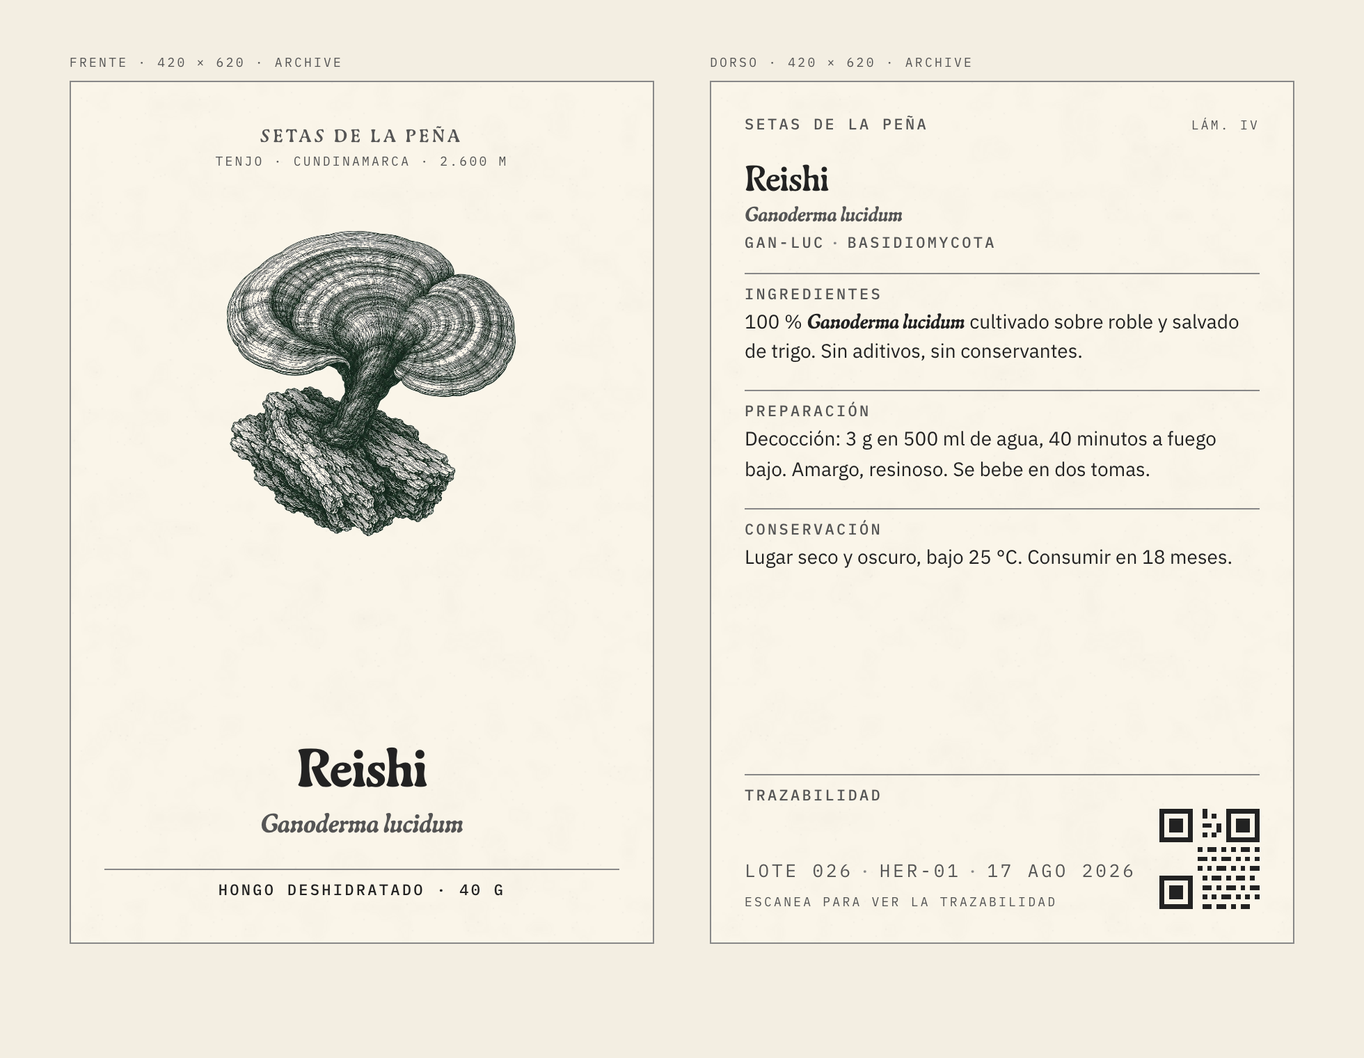
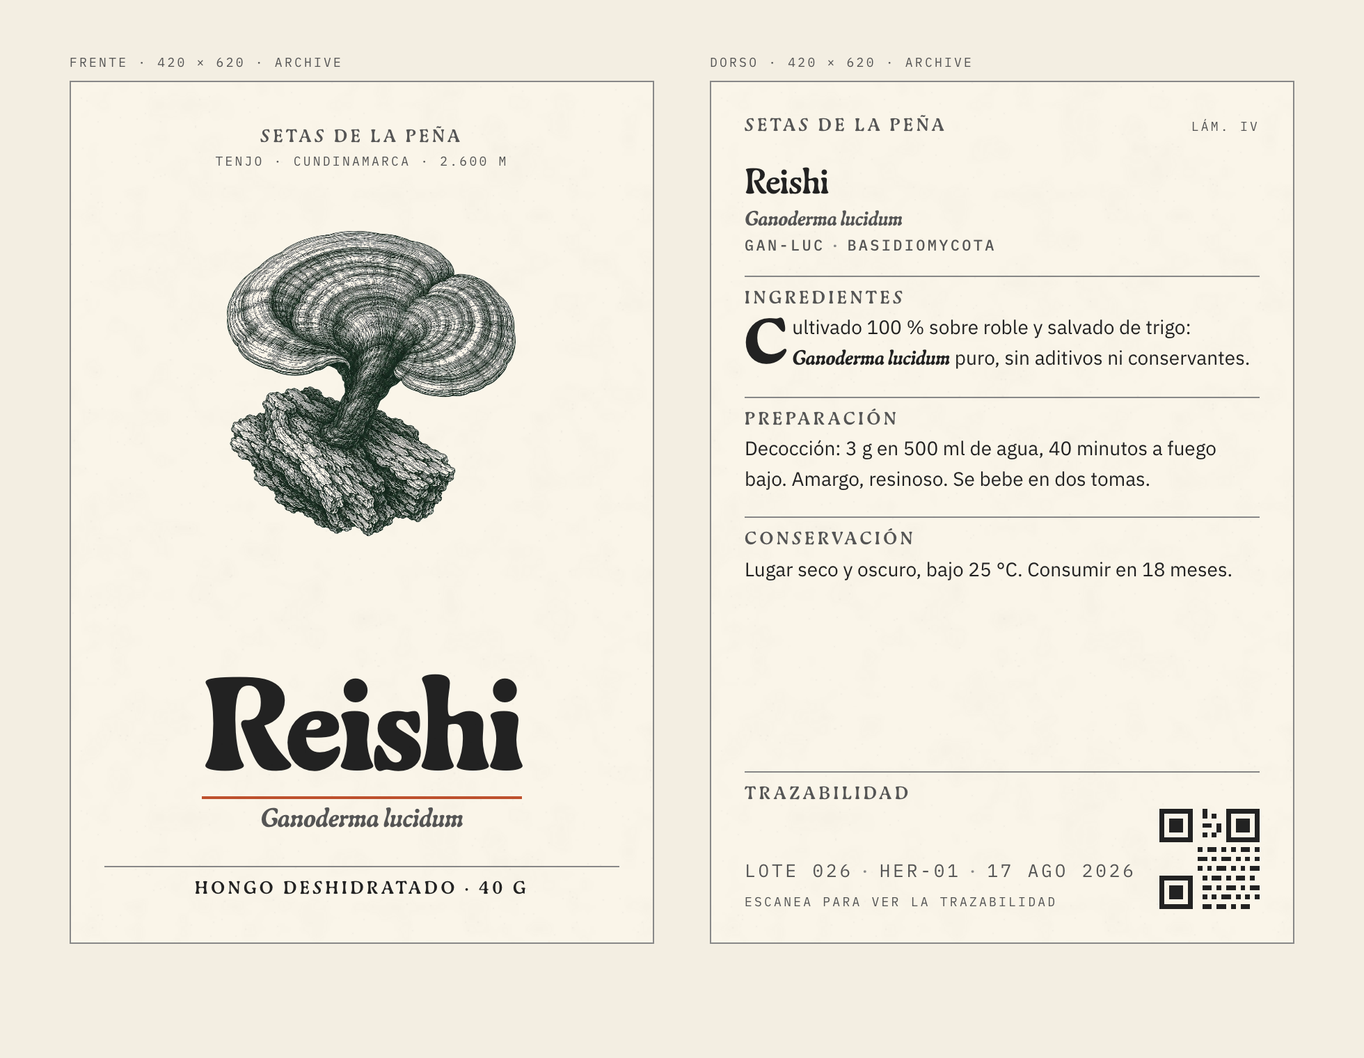
ds-2026: unify ficha/pack into ARCHIVE editorial voice, push cover treatment
Merges the customer-facing components (.sdp-ficha, .sdp-pack) fully into
the editorial layer and extends ARCHIVE mode toward a real magazine
treatment:

- tokens.css: additive --accent-warm (oklch(57% 0.15 38)), scoped to
  [data-mode="archive"] only — same hue family as --rust, fill/underline/
  thin-rule only (never text; 4.38:1 on paper).
- editorial.css: new --t-display-cover (88px Gaya Black) for the ficha
  masthead and packaging-front species name, each paired with the
  accent-warm rule; .ed-drop's cap now defaults on .sdp-ficha's prose and
  .sdp-pack--back's first section, no class required; .sdp-fig__ref reads
  as cartouche copy under [data-mode="archive"].
- components.css: .sdp-ficha/.sdp-pack drop --rule-heavy/--rule-frame for
  --rule-hairline throughout; __brand/__net/__sk/__k labels move from mono
  .t-label to the .ed-eyebrow treatment; new .sdp-fig--bleed full-bleed
  plate variant.
- Updated ficha.html, ficha-editorial.html and packaging.html to the new
  treatment; re-rendered mockups.
- contrast-audit.py: added ACCENT_WARM pairs (24/24 hold); DESIGN_SYSTEM.md
  updated throughout. FIELD and CONTROL modes untouched.

Claude-Session: https://claude.ai/code/session_01TXEK7an3m9N4C3cQKdr5TF

diff --git a/08_brand/ds-2026/components/components.css b/08_brand/ds-2026/components/components.css
@@ -50,6 +50,9 @@
 /* B.1 Botanical plate — full specimen, portrait, hairline specimen frame */
 .sdp-fig--plate       .sdp-fig__frame { aspect-ratio: 4 / 5;  padding: var(--space-3); background: var(--surface-page); }
 .sdp-fig--plate       .sdp-fig__frame img { object-fit: contain; }
+/* B.1a Full-bleed plate — ARCHIVE variant, no interior padding or ground.
+   Combine with .sdp-fig--plate: class="sdp-fig sdp-fig--plate sdp-fig--bleed" */
+.sdp-fig--plate.sdp-fig--bleed .sdp-fig__frame { padding: 0; background: none; }
 /* B.2 Specimen photo — detail, square */
 .sdp-fig--specimen    .sdp-fig__frame { aspect-ratio: 1 / 1; }
 /* B.3 Cultivation photo — context, 3:2 landscape */
@@ -66,10 +69,10 @@
 /* ─────────────────────────────────────────────────────────────
    C · FICHA / LÁMINA — botanical info sheet. ARCHIVE mode.
    ───────────────────────────────────────────────────────────── */
-.sdp-ficha { border: var(--rule-heavy); background: var(--surface-page); display: grid; }
+.sdp-ficha { border: var(--rule-hairline); background: var(--surface-page); display: grid; }
 .sdp-ficha__hd {
   display: flex; justify-content: space-between; align-items: flex-end; gap: var(--space-3);
-  padding: var(--space-3); border-bottom: var(--rule-heavy);
+  padding: var(--space-3); border-bottom: var(--rule-hairline);
 }
 .sdp-ficha__body { display: grid; grid-template-columns: 1fr 1fr; gap: var(--space-4); padding: var(--space-4) var(--space-3); }
 .sdp-ficha__prose > p:last-child { margin-bottom: 0; }
@@ -79,7 +82,10 @@
 }
 .sdp-ficha__cell { padding: var(--space-2) var(--space-3); border-right: var(--rule-hairline); }
 .sdp-ficha__cell:last-child { border-right: 0; }
-.sdp-ficha__k { display: block; font: var(--t-label); letter-spacing: var(--tracking-label); text-transform: uppercase; color: var(--text-metadata); margin-bottom: var(--space-half); }
+/* Editorial eyebrow (Gaya letterspaced caps), not the mono .t-label —
+   requires components/editorial.css loaded; every ARCHIVE-mode surface
+   that uses .sdp-ficha ships with it. */
+.sdp-ficha__k { display: block; font: var(--t-eyebrow-ed); letter-spacing: 0.2em; text-transform: uppercase; color: var(--text-secondary); margin-bottom: var(--space-half); }
 .sdp-ficha__v { font: var(--t-body); }
 .sdp-ficha__v--price { font: var(--t-data); font-size: var(--size-body); }
 @media (max-width: 700px) { .sdp-ficha__body { grid-template-columns: 1fr; } .sdp-ficha__ft { grid-template-columns: 1fr; } .sdp-ficha__cell { border-right: 0; border-bottom: var(--rule-hairline); } }
@@ -211,15 +217,17 @@
 /* ─────────────────────────────────────────────────────────────
    K · PACKAGING — front and back faces.
    ───────────────────────────────────────────────────────────── */
-.sdp-pack { border: var(--rule-frame); background: var(--surface-page); display: grid; }
-.sdp-pack__brand { font: var(--t-label); letter-spacing: var(--tracking-label); text-transform: uppercase; color: var(--text-metadata); }
+.sdp-pack { border: var(--rule-hairline); background: var(--surface-page); display: grid; }
+/* Editorial eyebrow treatment on __brand / __net / __sk — see the note
+   at .sdp-ficha__k above; same dependency on editorial.css. */
+.sdp-pack__brand { font: var(--t-eyebrow-ed); letter-spacing: 0.2em; text-transform: uppercase; color: var(--text-secondary); }
 .sdp-pack--front { padding: var(--space-4) var(--space-3); grid-template-rows: auto 1fr auto; gap: var(--space-3); text-align: center; justify-items: center; }
 .sdp-pack__illo { width: 100%; max-width: 260px; }
-.sdp-pack__net { font: var(--t-label); letter-spacing: var(--tracking-label); text-transform: uppercase; border-top: var(--rule-hairline); padding-top: var(--space-1); width: 100%; }
+.sdp-pack__net { font: var(--t-eyebrow-ed); letter-spacing: 0.2em; text-transform: uppercase; border-top: var(--rule-hairline); padding-top: var(--space-1); width: 100%; }
 .sdp-pack--back { display: flex; flex-direction: column; padding: var(--space-3); gap: var(--space-2); }
 .sdp-pack__sect { border-top: var(--rule-hairline); padding-top: var(--space-1); }
-.sdp-pack__sk { font: var(--t-label); letter-spacing: var(--tracking-label); text-transform: uppercase; color: var(--text-metadata); display: block; margin-bottom: var(--space-half); }
-.sdp-pack__sv { font: var(--t-small); }
+.sdp-pack__sk { font: var(--t-eyebrow-ed); letter-spacing: 0.2em; text-transform: uppercase; color: var(--text-secondary); display: block; margin-bottom: var(--space-half); }
+.sdp-pack__sv { font: var(--t-small); display: block; }
 
 /* ─────────────────────────────────────────────────────────────
    L · SOP DOCUMENT — procedure sheet. FIELD mode.

diff --git a/08_brand/ds-2026/components/editorial.css b/08_brand/ds-2026/components/editorial.css
@@ -18,6 +18,27 @@
   --t-eyebrow-ed: var(--weight-medium) 12px/1.2 var(--font-editorial);
 
   --rule-editorial: 1px solid var(--ink);
+
+  /* Cover scale — one step above --size-display-01 (64px), for ARCHIVE
+     cover treatments only: a packaging-front species name, a ficha
+     masthead. Not part of the nine-role type scale in tokens.css; it
+     never appears in running layout, only on the single cover mark
+     a surface is allowed. */
+  --size-display-cover: 88px;
+  --t-display-cover: var(--weight-black) var(--size-display-cover)/var(--leading-solid) var(--font-editorial);
+}
+
+/* ── Cover masthead — the species name on a ficha header or a packaging
+   front, set at cover scale with the accent-warm rule beneath it. This
+   is the one place --accent-warm appears; the surface takes no other
+   accent alongside it. ─────────────────────────────────────────────── */
+[data-mode="archive"] .sdp-ficha__hd .sdp-species__common,
+[data-mode="archive"] .sdp-pack--front .sdp-species__common {
+  font: var(--t-display-cover);
+  letter-spacing: var(--tracking-display);
+  display: inline-block;
+  padding-bottom: var(--space-1);
+  border-bottom: 2px solid var(--accent-warm);
 }
 
 /* ── Prose face. In ARCHIVE the running text is set in Gaya: the same
@@ -39,8 +60,13 @@
   margin: 0 0 var(--space-2);
 }
 
-/* Drop cap. Three lines, flush to the baseline grid, never on a lede. */
-.ed-drop::first-letter {
+/* Drop cap. Three lines, flush to the baseline grid, never on a lede.
+   Default (not opt-in) on the two customer-facing surfaces this layer
+   absorbs: the ficha's body copy and the packaging back's first section
+   — no .ed-drop class required there. */
+.ed-drop::first-letter,
+[data-mode="archive"] .sdp-ficha__prose > p:first-of-type::first-letter,
+[data-mode="archive"] .sdp-pack--back .sdp-pack__sect:not(.sdp-pack__sect ~ .sdp-pack__sect) .sdp-pack__sv::first-letter {
   float: left;
   font-family: var(--font-editorial);
   font-weight: var(--weight-black);
@@ -97,3 +123,19 @@
 /* ── Two-column editorial text, as a journal sets it. ─────────────── */
 .ed-cols { column-count: 2; column-gap: var(--space-4); column-rule: var(--rule-hairline); }
 .ed-cols > p { margin-top: 0; }
+
+/* ── Caption voice on ARCHIVE surfaces. A figure/species caption still
+   marked up as .sdp-fig__ref (mono uppercase, the FIELD/CONTROL plate
+   ref) reads as cartouche copy instead once it sits under [data-mode=
+   "archive"] — italic Gaya, sentence case, matching .ed-cartouche__l.
+   New captions should use .ed-cartouche directly; this is the safety
+   net for the plain component markup. ───────────────────────────────  */
+[data-mode="archive"] .sdp-fig__ref {
+  font-family: var(--font-editorial);
+  font-style: italic;
+  font-weight: var(--weight-regular);
+  font-size: 17px;
+  letter-spacing: 0;
+  text-transform: none;
+  color: var(--text-primary);
+}

diff --git a/08_brand/ds-2026/mockups/ficha-editorial.html b/08_brand/ds-2026/mockups/ficha-editorial.html
@@ -20,8 +20,11 @@
 
         <div>
           <div class="ed-eyebrow" style="margin-bottom:10px">Basidiomycota · Polyporales</div>
-          <h1 style="font:var(--t-display-02);letter-spacing:var(--tracking-display);margin:0">Reishi</h1>
-          <div style="font-family:var(--font-editorial);font-style:italic;font-weight:300;font-size:23px;color:var(--text-secondary);margin-top:2px">Ganoderma lucidum</div>
+          <!-- Cover scale (--t-display-cover, 88px Gaya Black) with the
+               archive accent rule beneath — the same masthead motif as
+               the ficha header and packaging front now share. -->
+          <h1 style="font:var(--t-display-cover);letter-spacing:var(--tracking-display);margin:0;display:inline-block;padding-bottom:var(--space-1);border-bottom:2px solid var(--accent-warm)">Reishi</h1>
+          <div style="font-family:var(--font-editorial);font-style:italic;font-weight:300;font-size:23px;color:var(--text-secondary);margin-top:10px">Ganoderma lucidum</div>
 
           <div class="ed-div" style="margin:22px 0 20px"><span class="ed-div__m">Lám. IV</span></div>
 
@@ -48,9 +51,11 @@
         </div>
 
         <aside style="display:grid;gap:20px">
-          <figure style="margin:0">
-            <div class="sdp-fig__frame frame-specimen" style="background:var(--surface-page);padding:14px;aspect-ratio:4/5;display:flex;align-items:center;justify-content:center">
-              <img src="../assets/img/species/reishi.png" alt="" style="max-width:100%;max-height:100%;object-fit:contain">
+          <!-- Full-bleed plate variant (sdp-fig--bleed): no interior
+               padding or ground, the specimen runs to the frame edge. -->
+          <figure class="sdp-fig sdp-fig--plate sdp-fig--bleed" style="margin:0">
+            <div class="sdp-fig__frame frame-specimen">
+              <img src="../assets/img/species/reishi.png" alt="Ganoderma lucidum">
             </div>
             <figcaption class="ed-cartouche" style="margin-top:12px">
               <span class="ed-cartouche__n">Lám. IV · cuerpo, corte y esporas</span>

diff --git a/08_brand/ds-2026/mockups/packaging.html b/08_brand/ds-2026/mockups/packaging.html
@@ -17,10 +17,14 @@
 
       <img class="sdp-pack__illo" src="../assets/img/reishi-botanical-engraving.png" alt="Ganoderma lucidum">
 
-      <div style="display:grid;gap:6px;justify-items:center;width:100%">
-        <!-- Gaya Bold 36px / Gaya Italic 18px — normative for the front face -->
-        <div style="font-family:var(--font-editorial);font-weight:700;font-size:36px;line-height:1.05;letter-spacing:-0.01em">Reishi</div>
-        <div style="font-family:var(--font-editorial);font-style:italic;font-weight:400;font-size:18px;color:var(--text-secondary)">Ganoderma lucidum</div>
+      <div style="display:grid;gap:10px;justify-items:center;width:100%">
+        <!-- Cover scale (--t-display-cover, 88px Gaya Black) + the archive
+             accent rule — see .sdp-pack--front .sdp-species__common in
+             editorial.css. Normative for the front face. -->
+        <div class="sdp-species" style="justify-items:center;gap:2px">
+          <div class="sdp-species__common">Reishi</div>
+          <div class="sdp-species__latin">Ganoderma lucidum</div>
+        </div>
         <div class="sdp-pack__net" style="text-align:center;margin-top:12px">Hongo deshidratado · 40 g</div>
       </div>
     </div>
@@ -42,7 +46,10 @@
 
       <div class="sdp-pack__sect">
         <span class="sdp-pack__sk">Ingredientes</span>
-        <span class="sdp-pack__sv">100 % <i style="font-family:var(--font-editorial)">Ganoderma lucidum</i> cultivado sobre roble y salvado de trigo. Sin aditivos, sin conservantes.</span>
+        <!-- First letter carries the default drop cap (.sdp-pack--back
+             .sdp-pack__sect:first-of-type .sdp-pack__sv, editorial.css) —
+             copy leads with a word, not a numeral, so the cap lands well. -->
+        <span class="sdp-pack__sv">Cultivado 100 % sobre roble y salvado de trigo: <i style="font-family:var(--font-editorial)">Ganoderma lucidum</i> puro, sin aditivos ni conservantes.</span>
       </div>
 
       <div class="sdp-pack__sect">

diff --git a/08_brand/ds-2026/tokens/tokens.css b/08_brand/ds-2026/tokens/tokens.css
@@ -160,6 +160,16 @@
 }
 
 /* ── Mode scopes: set on any container to switch density ── */
-[data-mode="archive"] { --gutter: var(--gutter-archive); --page-margin: var(--margin-archive); }
+[data-mode="archive"] {
+  --gutter: var(--gutter-archive); --page-margin: var(--margin-archive);
+
+  /* Customer-surface accent — additive, not a ninth pigment. Same hue
+     family as --rust (terracotta, ~38° vs ~35°), lighter and less
+     saturated. Archive-only: fichas, packaging. Fill / underline /
+     thin-rule ONLY — 4.38:1 on paper clears the 3:1 non-text floor but
+     misses 4.5:1 for text, so it is banned as body text by the same
+     logic that constrains --warning. See scripts/contrast-audit.py. */
+  --accent-warm: oklch(57% 0.15 38);
+}
 [data-mode="field"]   { --gutter: var(--gutter-field);   --page-margin: var(--margin-field); }
 [data-mode="control"] { --gutter: var(--gutter-control); --page-margin: var(--margin-control); }

diff --git a/08_brand/ds-2026/mockups/ficha.html b/08_brand/ds-2026/mockups/ficha.html
@@ -35,7 +35,7 @@
         </figure>
 
         <div class="sdp-ficha__prose ed-prose">
-          <p class="ed-lede">El reishi crece lento. Un bloque tarda entre catorce y dieciséis semanas
+          <p>El reishi crece lento. Un bloque tarda entre catorce y dieciséis semanas
           en dar su primer carpóforo, y el sombrero se lacquea sólo cuando el <span class="chem">CO₂</span>
           baja lo suficiente. Es la especie que más nos ha enseñado sobre paciencia.</p>
 

diff --git a/08_brand/ds-2026/scripts/contrast-audit.py b/08_brand/ds-2026/scripts/contrast-audit.py
@@ -18,6 +18,7 @@ P = {
     "PAPER_PANEL": "#F3EEE2", "PAPER_RECESSED": "#EAE4D8",
     "MOSS_TINT": "#E5E4D5", "RUST_TINT": "#EDDDCF",
     "WARNING_TINT": "#F4EAD6", "SOIL_TINT": "#E5DFD3",
+    "ACCENT_WARM": "#BE512D",  # oklch(57% 0.15 38) — archive-only, see tokens.css
 }
 
 def lin(c):
@@ -55,11 +56,13 @@ PAIRS = [
     ("INK",          "WARNING_TINT",   "Caution banner text (sanctioned)",       4.5, A),
     ("RULE",         "PAPER",          "Hairlines, specimen frames (non-text)",  3.0, A),
     ("MOSS",         "PAPER",          "Meter fill (non-text)",                  3.0, A),
+    ("ACCENT_WARM",  "PAPER",          "Archive accent — fill/underline/hairline (non-text)", 3.0, A),
     # --- Banned pairings. The system forbids these; the gate proves why. ---
     ("WARNING",      "PAPER",          "Ochre as TEXT — use WARNING_TEXT",       4.5, F),
     ("WARNING",      "WARNING_TINT",   "Ochre text on its own tint — use INK",   4.5, F),
     ("PAPER",        "WARNING",        "Paper on ochre fill — use INK",          4.5, F),
     ("WARNING",      "PAPER",          "Ochre hairline/meter alone — needs INK", 3.0, F),
+    ("ACCENT_WARM",  "PAPER",          "Archive accent as TEXT — never; fails AA", 4.5, F),
 ]
 
 rows = []

diff --git a/08_brand/ds-2026/DESIGN_SYSTEM.md b/08_brand/ds-2026/DESIGN_SYSTEM.md
@@ -93,6 +93,16 @@ Derived surfaces — mixed from the eight above, introducing no new pigment:
 **One accent per view.** A dashboard showing moss, ochre and rust at once has
 stopped classifying and started decorating.
 
+**`--accent-warm` — the archive accent (additive).** `oklch(57% 0.15 38)`,
+scoped to `[data-mode="archive"]` only — it does not exist in FIELD or
+CONTROL, and it is not a ninth pigment role. Same hue family as `RUST`
+(~38° vs. ~35°), lighter and less saturated: a terracotta, not a new
+colour story. **Fill, underline or thin-rule only** — 4.38:1 on paper
+clears the 3:1 non-text floor but misses 4.5:1 for text, so it is banned
+as body text by the same logic that constrains `WARNING` (§1.4). Its one
+sanctioned use is the masthead rule beneath a cover-scale species name
+(§5B) — a surface using it takes no other accent alongside it.
+
 ### 1.4 Contrast audit — the ochre constraint
 
 `WARNING #C49A4C` measures **2.39:1** on `PAPER`. That fails WCAG AA for text
@@ -131,12 +141,14 @@ means the palette moved and the ban is stale). Run it in CI.
 | `INK` | `WARNING_TINT` | Caution banner text (sanctioned) | 4.5:1 | 13.32:1 | Sanctioned |
 | `RULE` | `PAPER` | Hairlines, specimen frames (non-text) | 3.0:1 | 3.26:1 | Sanctioned |
 | `MOSS` | `PAPER` | Meter fill (non-text) | 3.0:1 | 5.52:1 | Sanctioned |
+| `ACCENT_WARM` | `PAPER` | Archive accent — fill/underline/hairline (non-text) | 3.0:1 | 4.38:1 | Sanctioned |
 | `WARNING` | `PAPER` | Ochre as TEXT — use WARNING_TEXT | 4.5:1 | 2.39:1 | **Banned** |
 | `WARNING` | `WARNING_TINT` | Ochre text on its own tint — use INK | 4.5:1 | 2.18:1 | **Banned** |
 | `PAPER` | `WARNING` | Paper on ochre fill — use INK | 4.5:1 | 2.39:1 | **Banned** |
 | `WARNING` | `PAPER` | Ochre hairline/meter alone — needs INK | 3.0:1 | 2.39:1 | **Banned** |
+| `ACCENT_WARM` | `PAPER` | Archive accent as TEXT — never; fails AA | 4.5:1 | 4.38:1 | **Banned** |
 
-22/22 expectations hold
+24/24 expectations hold
 
 ---
 
@@ -201,6 +213,18 @@ binomial in Gaya italic and the plate reference in mono micro.
 
 **Cropping.** Plates are `object-fit: contain` — a specimen is never cropped,
 because the silhouette is the identifying information. Photos are `cover`.
+
+**Full-bleed plate.** `.sdp-fig--plate.sdp-fig--bleed` drops the interior
+padding and paper ground of the default plate frame — the specimen runs to
+the frame edge instead of sitting contained inside it. An ARCHIVE-mode
+variant only; combine with `.sdp-fig--plate`, don't replace it.
+
+**Captions on ARCHIVE surfaces.** `.sdp-fig__ref` — the mono uppercase plate
+ref used in FIELD/CONTROL — reads as `.ed-cartouche` copy instead wherever
+it sits under `[data-mode="archive"]`: italic Gaya, sentence case, no
+tracking. New archive captions should be marked up with `.ed-cartouche`
+directly (§5B); the `.sdp-fig__ref` override exists as a safety net for
+plain component markup that hasn't been converted.
 
 **The species plates.** `assets/img/species/` holds nine specimen plates — one
 per species the farm grows: *Hericium erinaceus* (melena de león), *Ganoderma
@@ -289,12 +313,18 @@ photocopy.
 
 ### 5.2 Anatomy and states
 
-**Ficha / Lámina** — the archive object.
+**Ficha / Lámina** — the archive object, fully in the editorial voice (§5B).
 `__hd` (species block ‖ plate line) → `__body` (2-col: plate ‖ prose) →
-`__ft` (3 equal cells, hairline-divided).
-Header and footer are separated by `--rule-heavy` (2px `INK`); internal
-divisions are hairlines. Below 700px body and footer both collapse to one
-column and the cell borders move from right to bottom.
+`__ft` (3 equal cells, hairline-divided). Every division — outer frame,
+header rule, footer rule, cell dividers — is `--rule-hairline`; the ficha
+no longer carries a `--rule-heavy`/`--rule-frame` weight anywhere. The
+species name in `__hd` sets at the cover scale (§5B) with the
+`--accent-warm` rule beneath it. Footer cell keys (`__k`: presentación /
+preparación / precio) use the `.ed-eyebrow` treatment, not mono `.t-label`.
+The prose's first paragraph gets `.ed-drop`'s three-line cap by default —
+no class needed, and never combined with `.ed-lede`. Below 700px body and
+footer both collapse to one column and the cell borders move from right to
+bottom.
 *States:* none — a ficha is a document, not a control.
 
 **Lote card** — the field object.
@@ -330,7 +360,13 @@ footer lot line. Printed at A2; the room name is `display-02` in Gaya.
 **Packaging.** Front is a 3-row grid (brand / plate / naming block) centred.
 Back is a **flex column** so the traceability block sits at the foot regardless
 of copy length. Front carries **no** operational codes; the back carries the lot
-line and QR. A customer never sees a room name or an operator name.
+line and QR. A customer never sees a room name or an operator name. Both
+faces are in the editorial voice: the outer frame is `--rule-hairline`, and
+`__brand` / `__net` / `__sk` all take the `.ed-eyebrow` treatment instead of
+mono `.t-label`. The front's species name sets at the cover scale with the
+`--accent-warm` rule beneath (the same masthead device as the ficha
+header); the back's first section value (`__sect:first-of-type __sv`) gets
+`.ed-drop`'s cap by default, same as the ficha's prose.
 
 **SOP.** `__hd` (title + species block ‖ revision) → conditions `sdp-table` →
 `__step` boxes (`40px` mono numeral | title + body) → stop banner → folio.
@@ -344,6 +380,12 @@ as a botanical journal rather than a form. Everything in it is scoped: it is
 inert unless an ancestor carries `data-mode="archive"` or an `.ed-*` class is
 applied deliberately. **Field and Control stay instrument-like** — that contrast
 is the point of the system, not an inconsistency in it.
+
+**The customer-facing components live here now.** `.sdp-ficha` and `.sdp-pack`
+are Archive-mode components, and this layer no longer treats them as a
+separate, more restrained register — their rules, labels and captions are
+the same editorial devices as the flagship plate (`09-ficha-editorial`).
+Field and Control are the only surfaces still deliberately held apart.
 
 ### The prose face changes in Archive
 
@@ -362,7 +404,7 @@ Light is normative here, and the lede differs by **size, not weight**.
 |---|---|
 | `.ed-prose` | Marks a block as archive prose; switches the face and measure. |
 | `.ed-lede` | Opening paragraph, Gaya Light 22px. Never carries a drop cap. |
-| `.ed-drop` | Three-line drop cap on the paragraph's first letter, Gaya Black. |
+| `.ed-drop` | Three-line drop cap on the paragraph's first letter, Gaya Black. Default (no class needed) on `.sdp-ficha__prose`'s first paragraph and `.sdp-pack--back`'s first section value. |
 | `.ed-eyebrow` | Gaya in letterspaced caps — the archive counterpart to the mono `.t-label`, which stays the operational register. |
 | `.ed-sec` | Section head: rule above, `__k` eyebrow, `__h` heading. |
 | `.ed-folio` / `--foot` | Running head and folio foot, as on a printed sheet. |
@@ -370,6 +412,15 @@ Light is normative here, and the lede differs by **size, not weight**.
 | `.ed-cartouche` | Caption block under a plate: `__n` reference, `__l` binomial, `__d` description. |
 | `.ed-note` | Margin note, 22ch — the apparatus of a scientific plate. |
 | `.ed-cols` | Two-column text with a hairline column rule. |
+
+### Cover scale
+
+`--t-display-cover` (`--size-display-cover: 88px`, Gaya Black, same leading
+as `display-01`) is one step above `display-01` (64px) — defined in
+`editorial.css`, not in the nine-role scale in `tokens.css`, because it is
+never for running layout. Its only two uses are cover marks: the species
+name in a `.sdp-ficha__hd` and a `.sdp-pack--front`, each set with the
+`--accent-warm` rule beneath it as a single masthead device.
 
 ### `.chem` — a real fix, not a flourish
 
